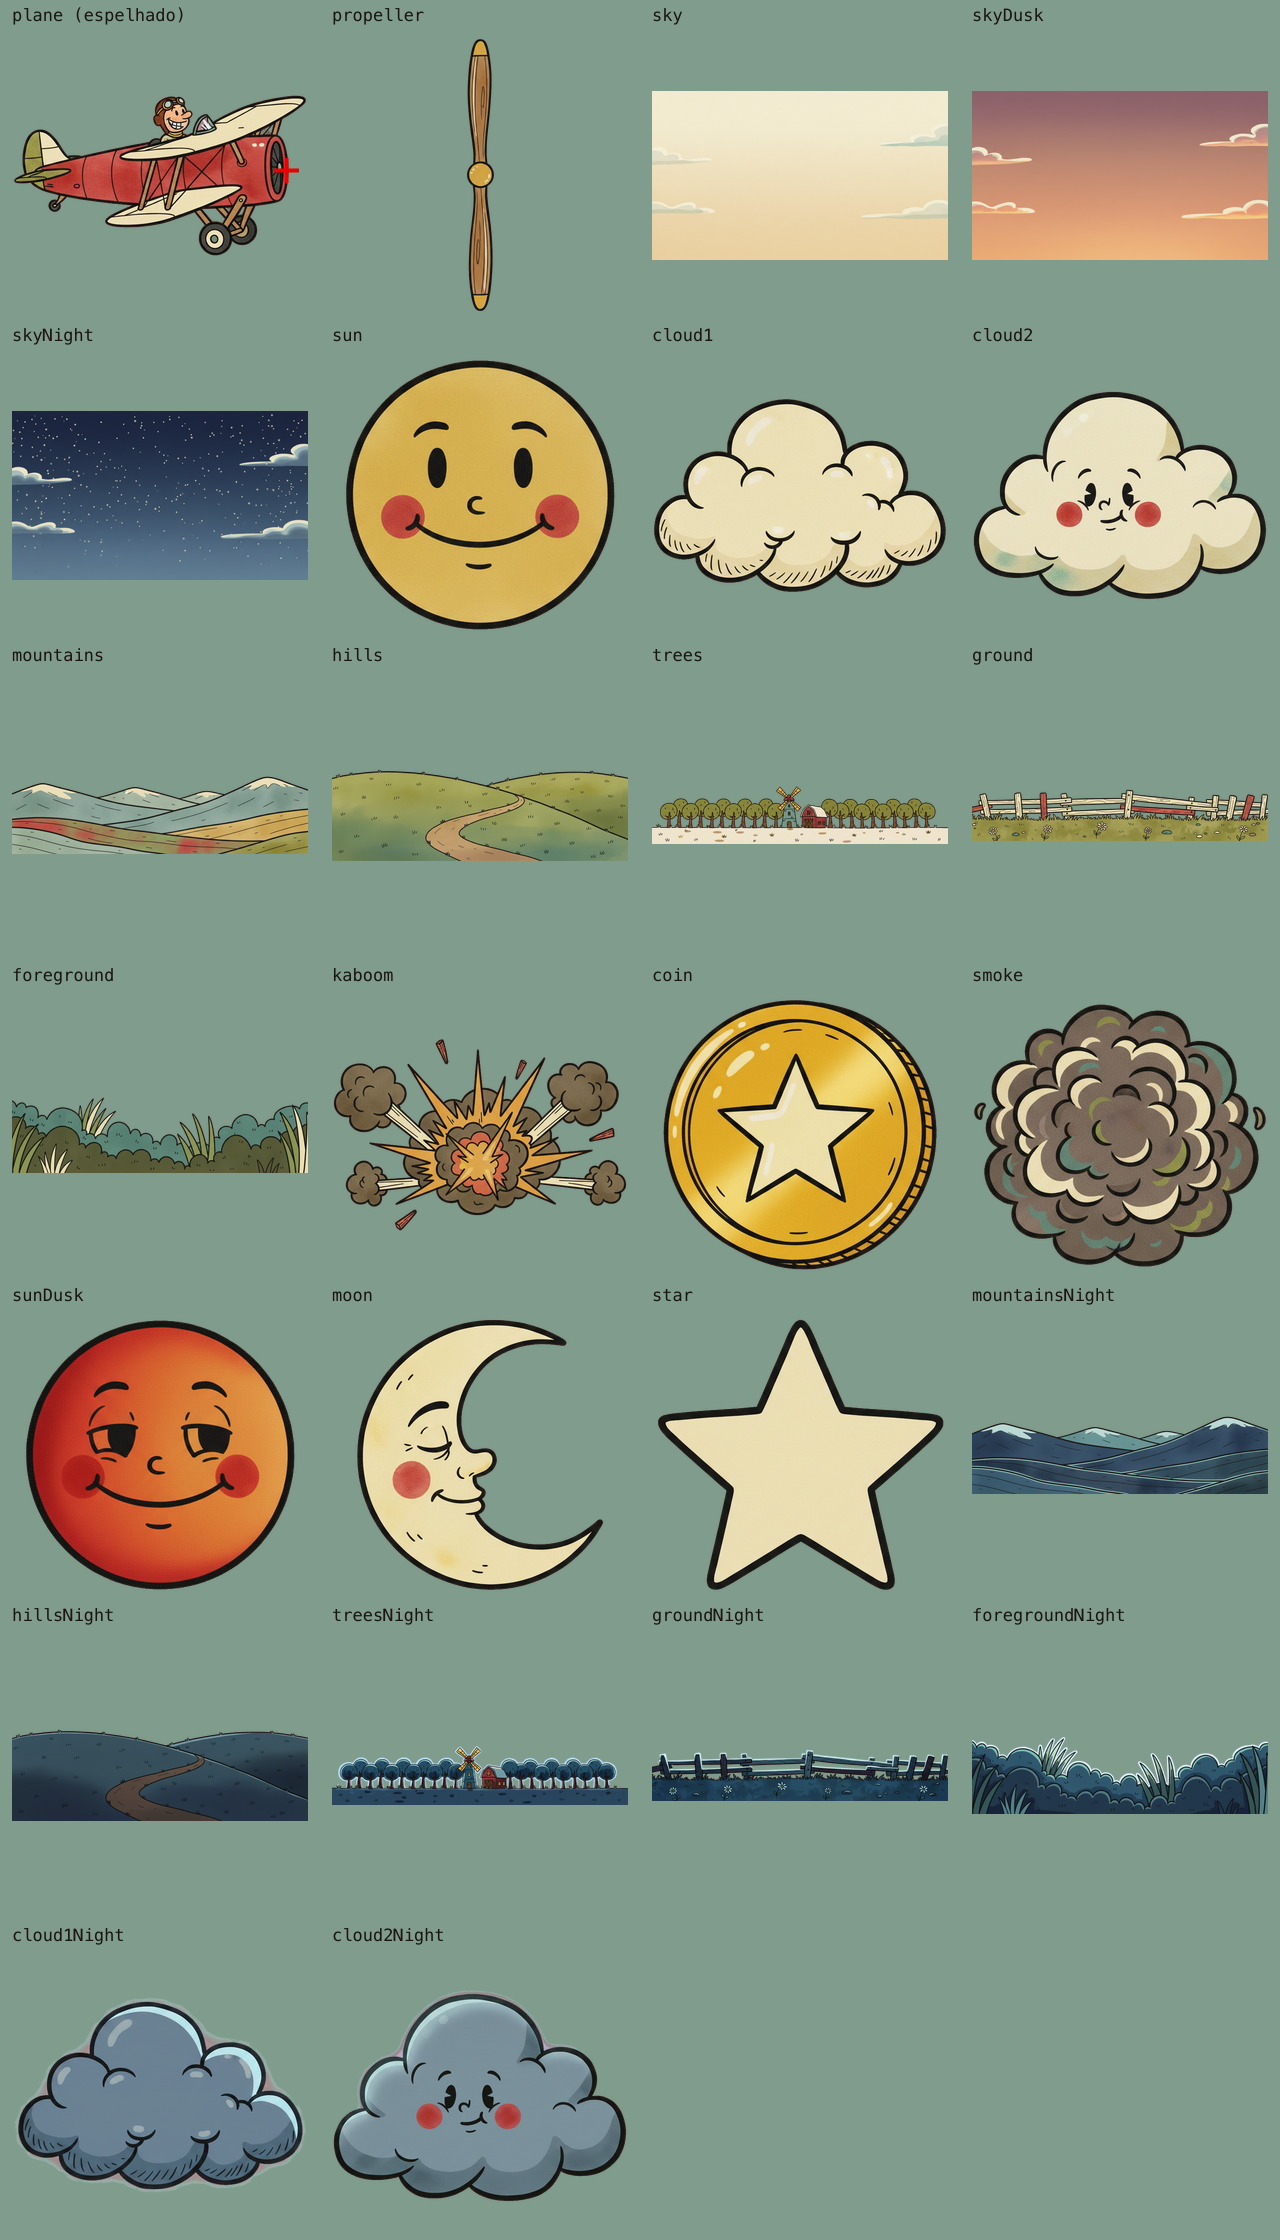
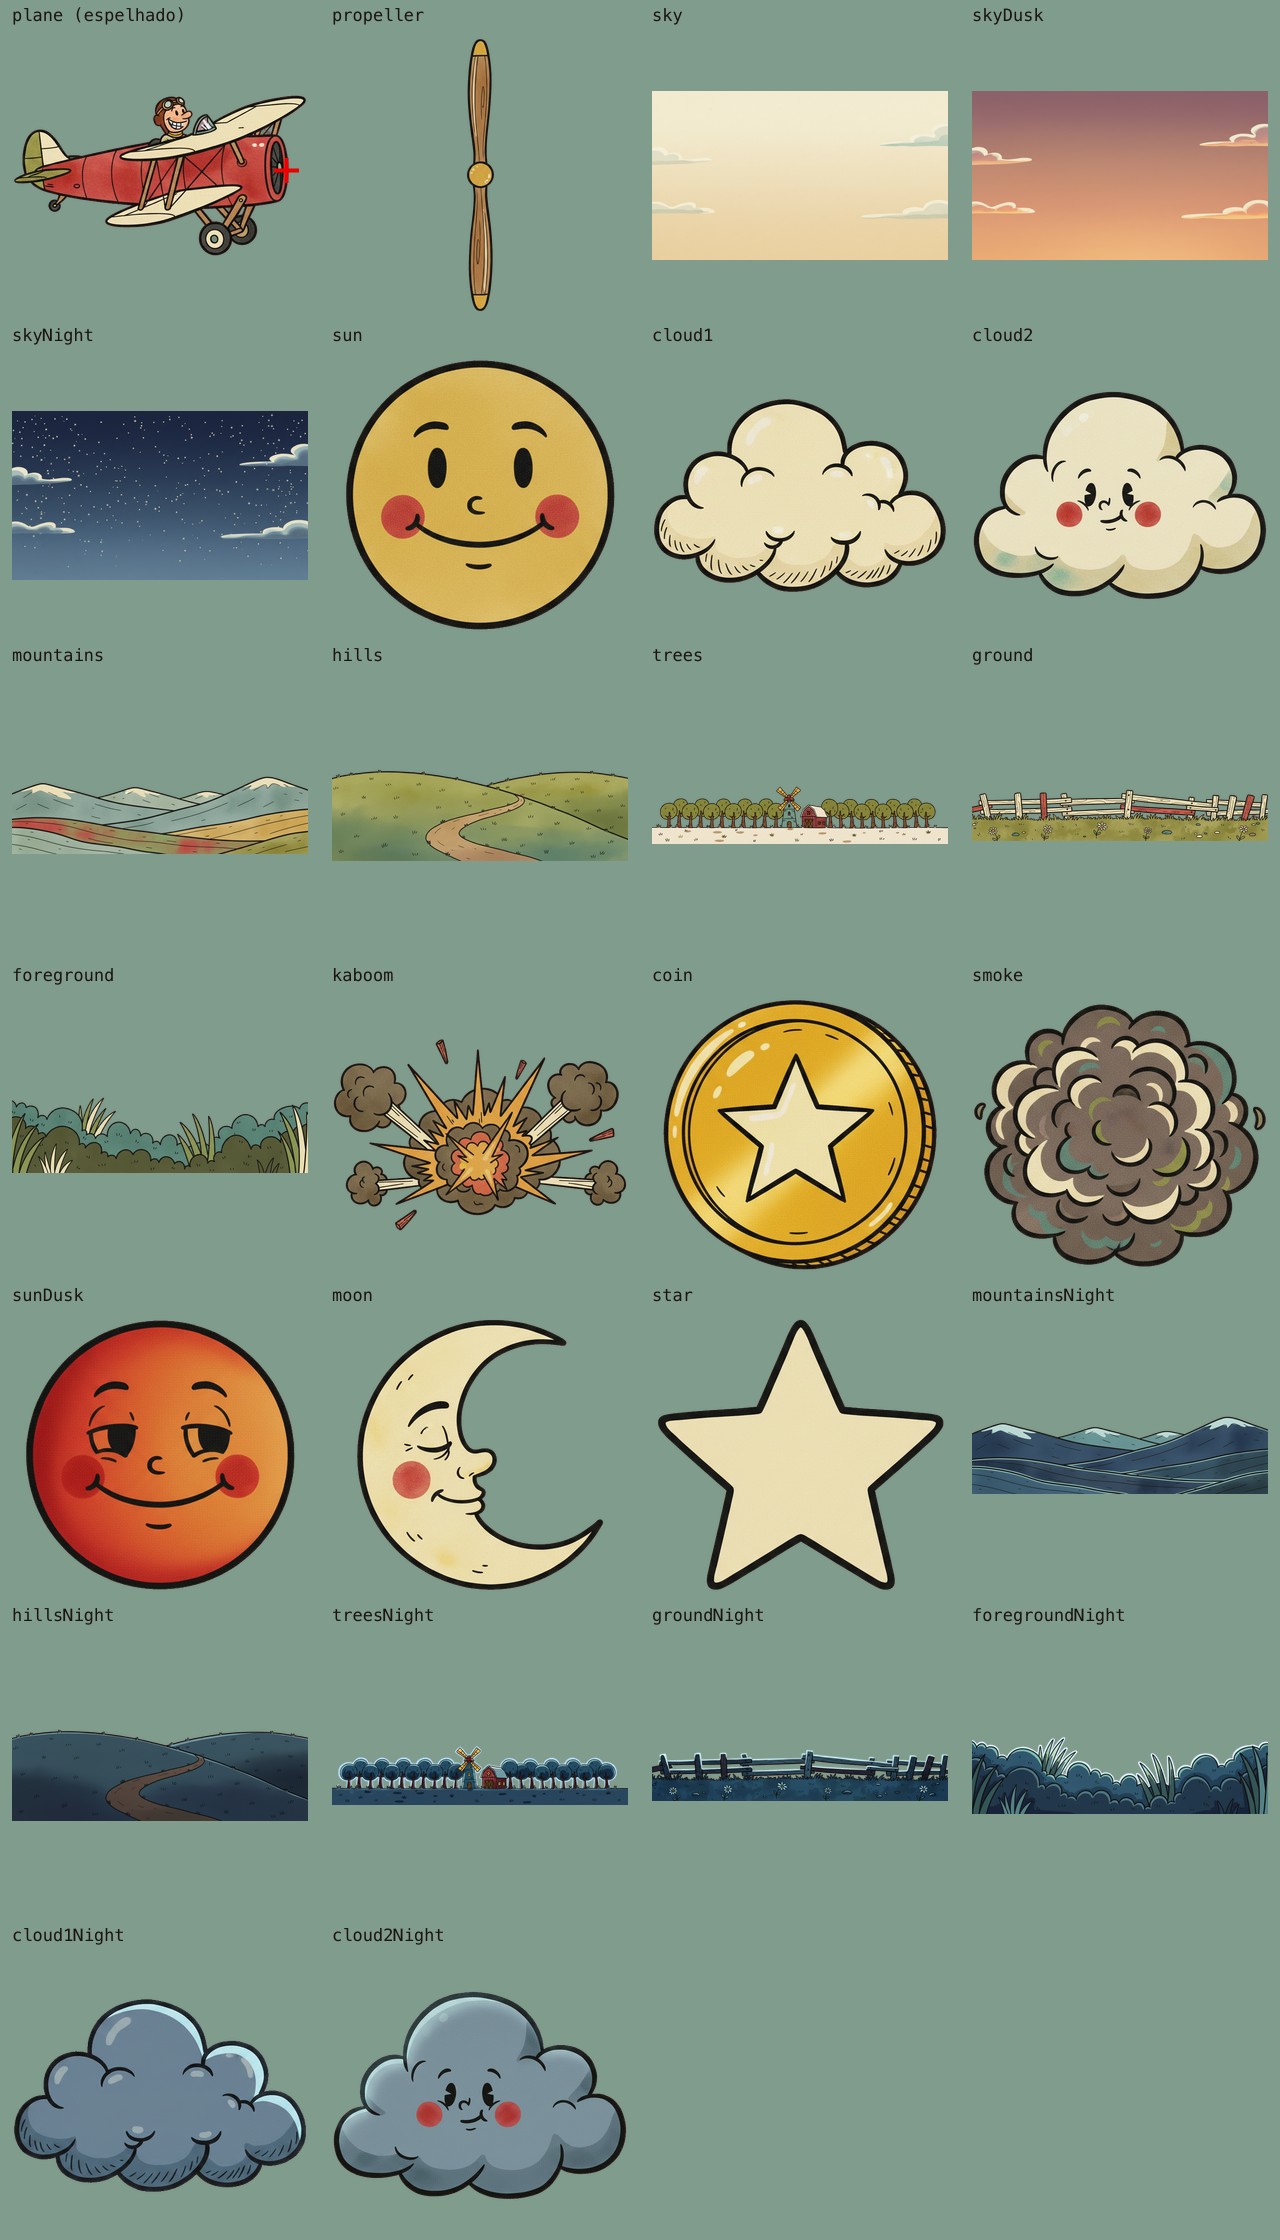
Noite mais limpa: halo das nuvens, sol/lua à esquerda e curva suave
- Gerador: etapa opcional "halo" que remove o brilho pintado por fora
  do contorno de tinta (o luar das nuvens noturnas virava uma borda
  acinzentada ao misturar com o magenta). Ligada só em cloud1Night e
  cloud2Night, que foram reprocessadas a partir dos originais.
- Sol e lua no canto superior esquerdo, para não ficarem atrás do avião
  quando ele sobe pela direita.
- Preenchimento vermelho sob a curva mais suave à noite.

diff --git a/src/scene.js b/src/scene.js
@@ -530,6 +530,7 @@ export class World {
       this.pts[i][1] = Y(Math.min(m, multiplierAt(s)));
     }
     this.fillRibbon.fill(this.pts, g.bottom);
+    this.fillRibbon.mesh.material.opacity = 0.18 * (1 - 0.65 * smoothstep(this.tod, 0.5, 1));   // à noite o vermelho vira um facho rosa
     this.inkRibbon.stroke(this.pts, 0.2);
     this.lineRibbon.stroke(this.pts, 0.1);
     this.lineRibbon.mesh.material.color.set(game.phase === 'crashed' ? C.redDark : C.red);
